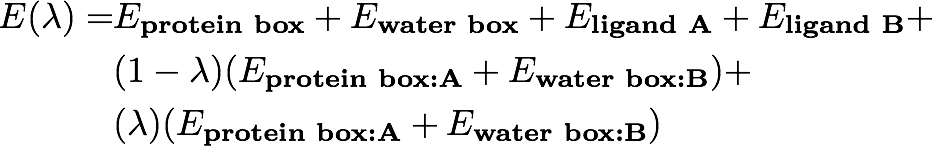
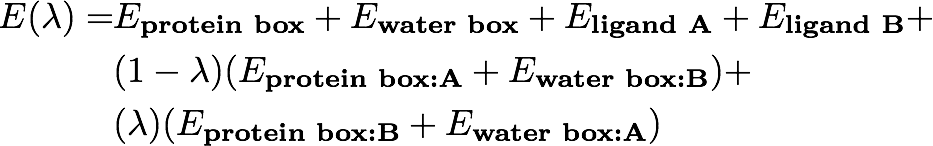
I've finished :-)

Changed region(s): [[0.4041, 0.7671, 0.7149, 0.9863]]

diff --git a/tutorials/ligandswap/equation.html b/tutorials/ligandswap/equation.html
@@ -1,24 +1,24 @@
 <?xml version="1.0"?>
-<body><blockquote><!--latexit:AAAFy3japVTLbxtFHP7t7KRNU7dxHk2bpm2Wxg0OpamTkraYpMRpHqSt3cfajpM4
[20 lines of base64/hex data omitted]
-DkdxHKewjrPYwkW8hDl+Dj+Pr+F38Lu1OiGpXrkr8LeGv/oTF2zQyg==
---><math xmlns="http://www.w3.org/1998/Math/MathML"><mstyle><mrow><mtable columnspacing="0.167em" columnalign="right center left" displaystyle="true"><mtr><mtd><mi>E</mi><mo maxsize="1">(</mo><mi>&#x3BB;</mi><mo maxsize="1">)</mo><mo>=</mo></mtd><mtd><mrow><msub><mi>E</mi><mstyle mathvariant="bold"><mrow><mi>p</mi><mi>r</mi><mi>o</mi><mi>t</mi><mi>e</mi><mi>i</mi><mi>n</mi><mi>b</mi><mi>o</mi><mi>x</mi></mrow></mstyle></msub></mrow><mo>+</mo><mrow><msub><mi>E</mi><mstyle mathvariant="bold"><mrow><mi>w</mi><mi>a</mi><mi>t</mi><mi>e</mi><mi>r</mi><mi>b</mi><mi>o</mi><mi>x</mi></mrow></mstyle></msub></mrow><mo>+</mo><mrow><msub><mi>E</mi><mstyle mathvariant="bold"><mrow><mi>l</mi><mi>i</mi><mi>g</mi><mi>a</mi><mi>n</mi><mi>d</mi><mi>A</mi></mrow></mstyle></msub></mrow><mo>+</mo><mrow><msub><mi>E</mi><mstyle mathvariant="bold"><mrow><mi>l</mi><mi>i</mi><mi>g</mi><mi>a</mi><mi>n</mi><mi>d</mi><mi>B</mi></mrow></mstyle></msub></mrow><mo>+</mo></mtd></mtr><mtr><mtd><mspace/></mtd><mtd><mo maxsize="1">(</mo><mn>1</mn><mo>-</mo><mi>&#x3BB;</mi><mo maxsize="1">)</mo><mo maxsize="1">(</mo><mrow><msub><mi>E</mi><mstyle mathvariant="bold"><mrow><mi>p</mi><mi>r</mi><mi>o</mi><mi>t</mi><mi>e</mi><mi>i</mi><mi>n</mi><mi>b</mi><mi>o</mi><mi>x</mi><mo>:</mo><mi>A</mi></mrow></mstyle></msub></mrow><mo>+</mo><mrow><msub><mi>E</mi><mstyle mathvariant="bold"><mrow><mi>w</mi><mi>a</mi><mi>t</mi><mi>e</mi><mi>r</mi><mi>b</mi><mi>o</mi><mi>x</mi><mo>:</mo><mi>B</mi></mrow></mstyle></msub></mrow><mo maxsize="1">)</mo><mo>+</mo></mtd></mtr><mtr><mtd><mspace/></mtd><mtd><mo maxsize="1">(</mo><mi>&#x3BB;</mi><mo maxsize="1">)</mo><mo maxsize="1">(</mo><mrow><msub><mi>E</mi><mstyle mathvariant="bold"><mrow><mi>p</mi><mi>r</mi><mi>o</mi><mi>t</mi><mi>e</mi><mi>i</mi><mi>n</mi><mi>b</mi><mi>o</mi><mi>x</mi><mo>:</mo><mi>A</mi></mrow></mstyle></msub></mrow><mo>+</mo><mrow><msub><mi>E</mi><mstyle mathvariant="bold"><mrow><mi>w</mi><mi>a</mi><mi>t</mi><mi>e</mi><mi>r</mi><mi>b</mi><mi>o</mi><mi>x</mi><mo>:</mo><mi>B</mi></mrow></mstyle></msub></mrow><mo maxsize="1">)</mo></mtd></mtr></mtable></mrow></mstyle></math></blockquote></body>
+<body><blockquote><!--latexit:AAAFy3jahVRbbxtFGP12dtKmqds4l6ZN0zYLcYNDaeqkpC0hKbGbC2lrp+3ajpM4
[21 lines of base64/hex data omitted]
+--><math xmlns="http://www.w3.org/1998/Math/MathML"><mstyle><mrow><mtable columnspacing="0.167em" columnalign="right center left" displaystyle="true"><mtr><mtd><mi>E</mi><mo maxsize="1">(</mo><mi>&#x3BB;</mi><mo maxsize="1">)</mo><mo>=</mo></mtd><mtd><mrow><msub><mi>E</mi><mstyle mathvariant="bold"><mrow><mi>p</mi><mi>r</mi><mi>o</mi><mi>t</mi><mi>e</mi><mi>i</mi><mi>n</mi><mi>b</mi><mi>o</mi><mi>x</mi></mrow></mstyle></msub></mrow><mo>+</mo><mrow><msub><mi>E</mi><mstyle mathvariant="bold"><mrow><mi>w</mi><mi>a</mi><mi>t</mi><mi>e</mi><mi>r</mi><mi>b</mi><mi>o</mi><mi>x</mi></mrow></mstyle></msub></mrow><mo>+</mo><mrow><msub><mi>E</mi><mstyle mathvariant="bold"><mrow><mi>l</mi><mi>i</mi><mi>g</mi><mi>a</mi><mi>n</mi><mi>d</mi><mi>A</mi></mrow></mstyle></msub></mrow><mo>+</mo><mrow><msub><mi>E</mi><mstyle mathvariant="bold"><mrow><mi>l</mi><mi>i</mi><mi>g</mi><mi>a</mi><mi>n</mi><mi>d</mi><mi>B</mi></mrow></mstyle></msub></mrow><mo>+</mo></mtd></mtr><mtr><mtd><mspace/></mtd><mtd><mo maxsize="1">(</mo><mn>1</mn><mo>-</mo><mi>&#x3BB;</mi><mo maxsize="1">)</mo><mo maxsize="1">(</mo><mrow><msub><mi>E</mi><mstyle mathvariant="bold"><mrow><mi>p</mi><mi>r</mi><mi>o</mi><mi>t</mi><mi>e</mi><mi>i</mi><mi>n</mi><mi>b</mi><mi>o</mi><mi>x</mi><mo>:</mo><mi>A</mi></mrow></mstyle></msub></mrow><mo>+</mo><mrow><msub><mi>E</mi><mstyle mathvariant="bold"><mrow><mi>w</mi><mi>a</mi><mi>t</mi><mi>e</mi><mi>r</mi><mi>b</mi><mi>o</mi><mi>x</mi><mo>:</mo><mi>B</mi></mrow></mstyle></msub></mrow><mo maxsize="1">)</mo><mo>+</mo></mtd></mtr><mtr><mtd><mspace/></mtd><mtd><mo maxsize="1">(</mo><mi>&#x3BB;</mi><mo maxsize="1">)</mo><mo maxsize="1">(</mo><mrow><msub><mi>E</mi><mstyle mathvariant="bold"><mrow><mi>p</mi><mi>r</mi><mi>o</mi><mi>t</mi><mi>e</mi><mi>i</mi><mi>n</mi><mi>b</mi><mi>o</mi><mi>x</mi><mo>:</mo><mi>B</mi></mrow></mstyle></msub></mrow><mo>+</mo><mrow><msub><mi>E</mi><mstyle mathvariant="bold"><mrow><mi>w</mi><mi>a</mi><mi>t</mi><mi>e</mi><mi>r</mi><mi>b</mi><mi>o</mi><mi>x</mi><mo>:</mo><mi>A</mi></mrow></mstyle></msub></mrow><mo maxsize="1">)</mo></mtd></mtr></mtable></mrow></mstyle></math></blockquote></body>

diff --git a/tutorials/ligandswap/residue.html b/tutorials/ligandswap/residue.html
@@ -1,0 +1,24 @@
+<?xml version="1.0"?>
+<body><blockquote><!--latexit:AAAFInjafVN7bBRFGP9m5gqlPej2QXkU6EoPuYJgW6zFWqBXSqFiD2Sv7dFerXN7
[20 lines of base64/hex data omitted]
+jsM/lq/+L9e7p20=
+--><math xmlns="http://www.w3.org/1998/Math/MathML"><mstyle><mrow><mtable columnspacing="0.167em" columnalign="right center left" displaystyle="true"><mrow><mrow><msub><mi>E</mi><mstyle mathvariant="bold"><mrow><mi>r</mi><mi>e</mi><mi>s</mi><mi>i</mi><mi>d</mi><mi>u</mi><mi>e</mi></mrow></mstyle></msub></mrow><mo maxsize="1">(</mo><mi>&#x3BB;</mi><mo maxsize="1">)</mo><mo>=</mo><mo maxsize="1">(</mo><mn>1</mn><mo>-</mo><mi>&#x3BB;</mi><mo maxsize="1">)</mo><mo maxsize="1">(</mo><mrow><msub><mi>E</mi><mstyle mathvariant="bold"><mrow><mi>r</mi><mi>e</mi><mi>s</mi><mi>i</mi><mi>d</mi><mi>u</mi><mi>e</mi><mo>:</mo><mi>A</mi></mrow></mstyle></msub></mrow><mo maxsize="1">)</mo><mo>+</mo><mo maxsize="1">(</mo><mi>&#x3BB;</mi><mo maxsize="1">)</mo><mo maxsize="1">(</mo><mrow><msub><mi>E</mi><mstyle mathvariant="bold"><mrow><mi>r</mi><mi>e</mi><mi>s</mi><mi>i</mi><mi>d</mi><mi>u</mi><mi>e</mi><mo>:</mo><mi>B</mi></mrow></mstyle></msub></mrow><mo maxsize="1">)</mo></mrow></mtable></mrow></mstyle></math></blockquote></body>

diff --git a/tutorials/ligandswap/theory.md b/tutorials/ligandswap/theory.md
@@ -40,6 +40,18 @@ The energy expression is given below;
 
 [![Equation - click for MathML](equation.png)](equation.html)
 
+Because the ligandswap λ reaction coordinate switches from ligand A being bound to the protein, and ligand B being bound to the protein, this means that the free energy difference between λ=1 and λ=0 is the relative binding free energy of the two ligands. Positive values indicate a penalty for switching A with B, meaning that ligand A is the stronger binder. Negative values indicate a benefit of switching A with B, meaning that ligand B is the stronger binder.
+
+Any standard free energy method can be used to evaluate the free energy change along this λ coordinate. The `ligandswap` program uses [Free Energy Perturbation (FEP)](https://en.wikipedia.org/wiki/Free_energy_perturbation), 
+[Bennetts Acceptance Ratio (BAR)](https://en.wikipedia.org/wiki/Bennett_acceptance_ratio) and
+[Thermodynamic Integration (TI)](https://en.wikipedia.org/wiki/Thermodynamic_integration) simultaneously. To improve convergence, [replica exchange moves](http://dx.doi.org/10.1021/jp0356620) are applied across λ to allow sampling along this coordinate. In addition, to improve convergence and smooth the resulting potentials of mean force (PMFs), 
+a [soft-core potential](http://dx.doi.org/10.1063/1.3519057) is used to soften the interactions between the atoms of the ligands and the atoms of the protein and water boxes at λ values between 0 and 1.
+
+Because the free energy is evaluated over a single reaction coordinate, it is possible to decompose the energy expression into components. For example, we can evalute the contribution to the relative binding energy caused by interactions between the ligands and a single residue, e.g.
+
+[![Equation - click for MathML](residue.png)](residue.html)
+
+Thermodynamic integration can be used to average dE(λ)/dλ during the ligandswap calculation, thereby returning estimates of the relative free energy of binding for the ligands to each residue of the protein. These are estimates, and should not themselves be called free energies. This is because they are formed using the ensemble of structures generated using the total energy expression, and not the decomposed expression. However, they will include entropy, and they will give an indication of whether an individual residue contributes to the relative binding free energy, and if so, to which ligand the residue binds most strongly. As such, they are a very useful tool that help guide the process of rational drug design. The mathematics underlying this decomposition as applied to waterswap is [described in more detail here](http://dx.doi.org/10.1039/c3fd00125c).
 
 ***
 
